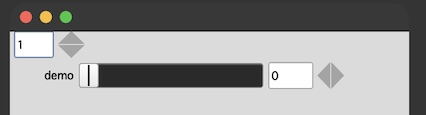
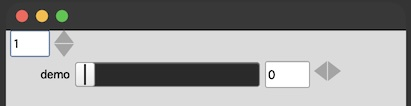
updated readme

Changed region(s): [[0.0, 0.2547, 0.9927, 1.0], [0.0876, 0.5377, 0.8467, 0.8491], [0.0292, 0.0849, 0.1752, 0.2264]]

diff --git a/README.md b/README.md
@@ -39,7 +39,7 @@ A collapsing view for managing screen realestate.
 
  ### StepButton
 
-A SteppButton that can easily be attached to input widgets.
+A StepButton that can easily be attached to input widgets.
 
 ![StepButton](./StepButton.jpg)
 
